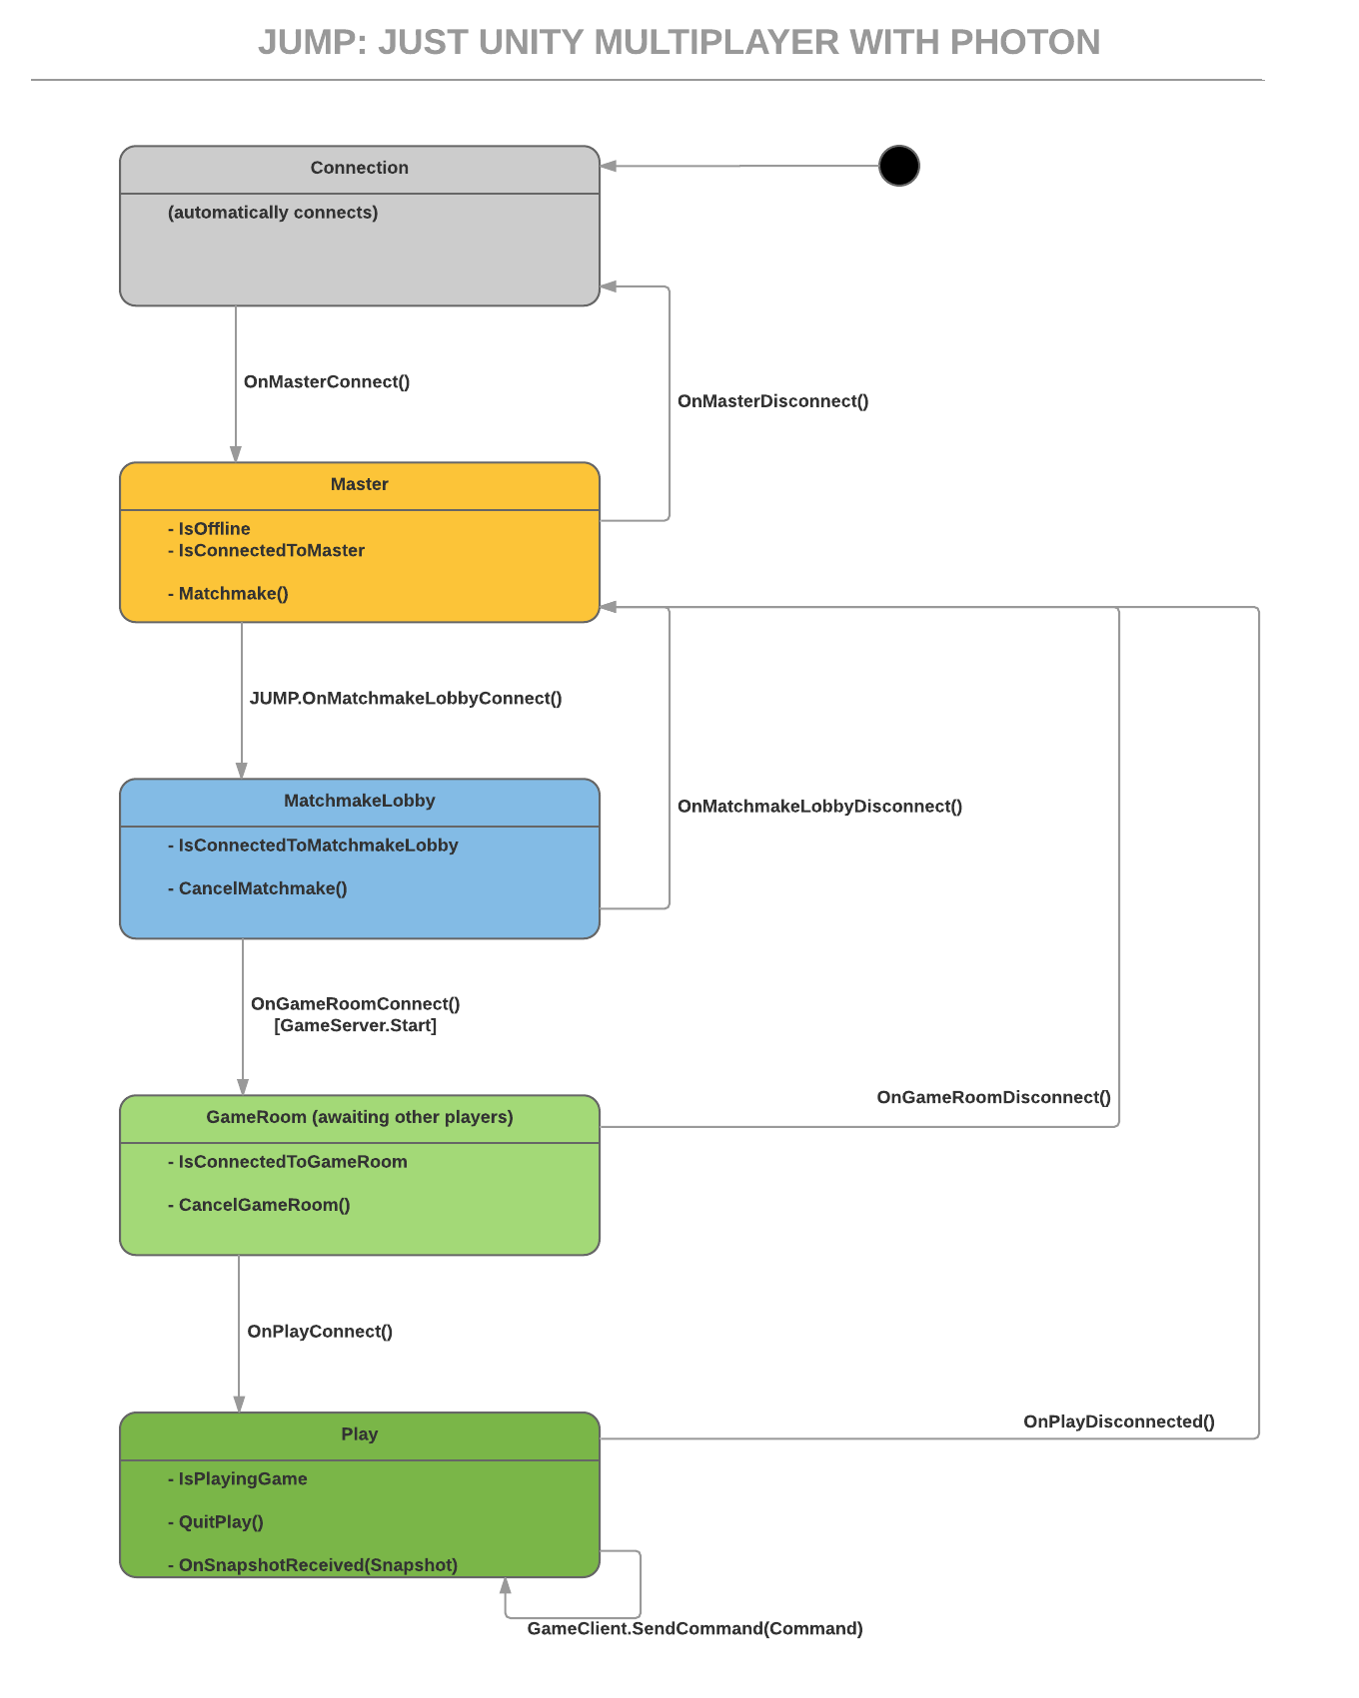
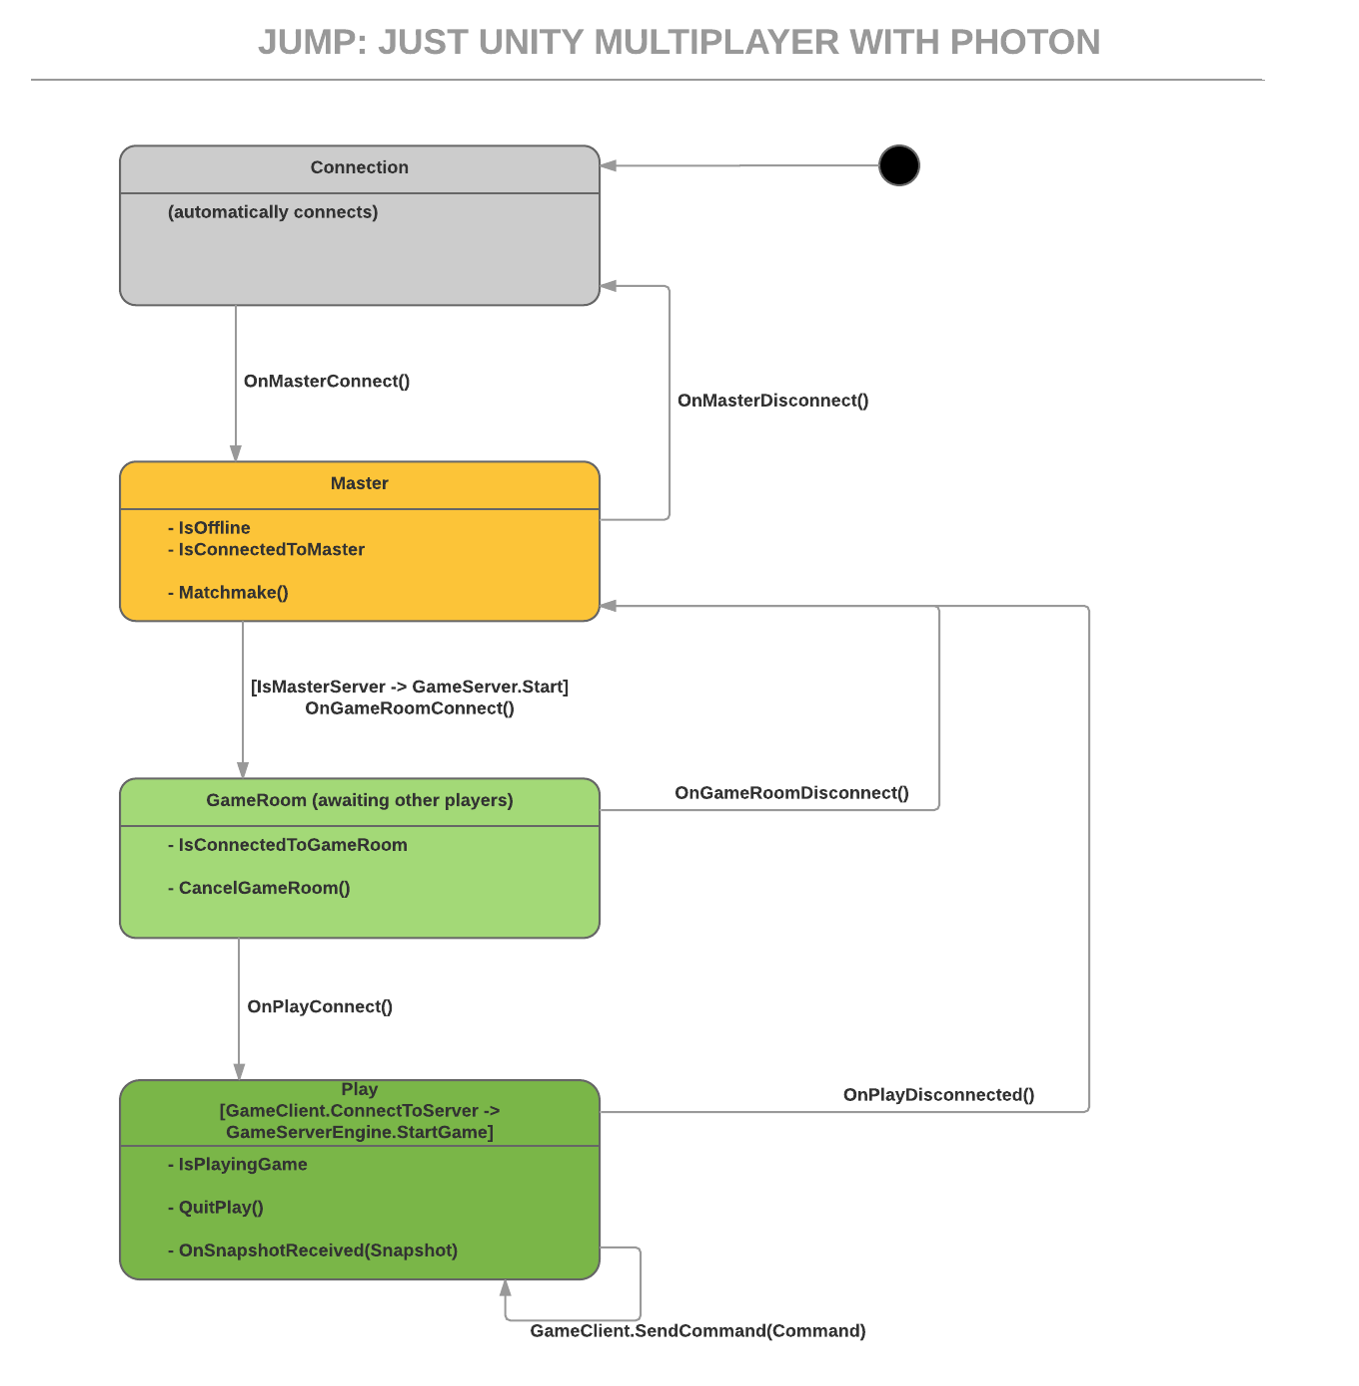
Updating documentation to reflect the removal of the Matchmaking Lobby.

diff --git a/README.md b/README.md
@@ -16,7 +16,7 @@ Out of the box, **JUMP** Provides:
 - Full source code access and great customization.
 
 #### Current Version
-[0.1.2] - 2016-05-05
+[0.2.0] - 2016-05-05
 
 For details, see [Changelog](https://raw.githubusercontent.com/MaurGi/JUMP/master/CHANGELOG.md)
 
@@ -65,18 +65,17 @@ The scenario supported by JUMP is very simple and designed with mobile multiplay
 * [Client-Server communication](#client-server-communication)
 
 #### Two Players networking
-JUMP automates building [Photon] rooms with two players, easy.
+JUMP automates building Photon game rooms, easy.
  
-*Note:* While it can be extended to support more than two players, the support for UI flow is only for the two players scenario
+*Note:* While it supports more than two players, we tested JUMP with the two players scenario
 
 #### Basic Matchmaking
-JUMP supports a single [Photon Lobby] with [Random Matchmaking](https://doc.photonengine.com/en/realtime/current/reference/matchmaking-and-lobby).
+JUMP uses Photon [Random Matchmaking](https://doc.photonengine.com/en/realtime/current/reference/matchmaking-and-lobby) without the use of the Photon Lobby making the UI and the object model much simpler to use compared to the use of the Lobby.
 
 #### Streamlined UI flow
 JUMP supports up to five different Unity scenes:
 * Connection
 * Home Page (Master)
-* Matchmaking Lobby
 * [Room] Waiting for players
 * [Room] Playing the game
 
@@ -141,7 +140,6 @@ public enum Stages
 {
     Connection,
     Master,
-    MatchmakeLobby,
     GameRoom,
     Play
 }
@@ -162,38 +160,14 @@ public UnityEvent OnMasterConnect;
 You respond to the event by loading a different Unity Scene with a `JUMPMultiplayer` object set in to the `Master` stage.
 Note that if the connection fails, then the `OnMasterConnect` event is raised, but the `JUMPMultiplayer.IsOffline` property is set to true.
 ##### `Stages.Master`
-The `Master` stage is the main screen one, the user is connected to Photon, but not yet into a matchmaking queue or in a game room.
-While connected to the Photon Master server (but not in a Lobby or Room), the `JUMPMultiplayer.IsConnectedToMaster` property will be set to `true`.
+The `Master` stage is the main screen one, the user is connected to Photon, but not yet into a game room.
+While connected to the Photon Master server (but not in a Room), the `JUMPMultiplayer.IsConnectedToMaster` property will be set to `true`.
 
 To start the matchmaking proces, you call the `Matchmake` operation:
 ```c#
 public void Matchmake()
 ```
-This triggers the request to connect to the default [Photon Matchmaking Lobby](https://doc.photonengine.com/en/realtime/current/reference/matchmaking-and-lobby) for your game.
-
-When the connection succees, the `OnMatchmakeLobbyConnect` event is fired. You want to handle this event by loading the Mathcmaking scene.
-```c#
-public UnityEvent OnMatchmakeLobbyConnect;
-```
-
-If the connection fails or we lose connection to the PhotonServer, then the `OnMasterDisconnect` event is fired. You want to handle this event by going back to the 'Connection' scene to try and reconnect once - if reconnection fails, you will be navigate again to the main scree with the `IsOffline` property set to true - in which case, you want to tell your users that they are offline. 
-```c#
-public UnityEvent OnMasterDisconnect;
-```
-##### `Stages.MatchmakeLobby`
-In the Matchmake lobby, JUMP will try to matchmake to a [Photon Game Room](https://doc.photonengine.com/en/realtime/current/reference/matchmaking-and-lobby) using Randon matchmaking.
-While connected to the Photon Lobby, the `JUMPMultiplayer.IsConnectedToMatchmakeLobby` property will be set to `true`.
-
-You can cancel the attempt to matchmake by calling the `CancelMatchmake` operation:
-```c#
-public void CancelMatchmake()
-```
-This will cancel the request to matchmake and raise the `OnMatchmakeLobbyDisconnect` event:
-```c#
-public UnityEvent OnMatchmakeLobbyDisconnect;
-```
-The `OnMatchmakeLobbyDisconnect` is also triggered in case of loss of connection to Photon.
-You want to handle this event by going back to the Main screen ([`Stages.Master`](#stagesmaster))
+This will make JUMP try to matchmake and connect to a [Photon Game Room](https://doc.photonengine.com/en/realtime/current/reference/matchmaking-and-lobby) using Randon matchmaking.
 
 When a game room is found then the `OnGameRoomConnect` event is fired:
 ```c#''
@@ -206,6 +180,12 @@ When the client connects to the Game Room, an instance of the [`JUMPGameServer`]
 ```c#
 public string GameServerEngineTypeName;
 ```
+
+If the connection fails or we lose connection to the PhotonServer, then the `OnMasterDisconnect` event is fired. You want to handle this event by going back to the 'Connection' scene to try and reconnect once - if reconnection fails, you will be navigate again to the main scree with the `IsOffline` property set to true - in which case, you want to tell your users that they are offline. 
+```c#
+public UnityEvent OnMasterDisconnect;
+```
+
 ##### `Stages.GameRoom`
 In this stage, the player is connected to a [Photon Game Room](https://doc.photonengine.com/en/realtime/current/reference/matchmaking-and-lobby) and waiting for the room to be full with two players.
 While connected to the Game Room, the `JUMPMultiplayer.IsConnectedToGameRoom` property will be set to `true`.
@@ -255,7 +235,6 @@ The _/JUMP/Multiplayer_ folder contains five prefabs, one for each of the [Stage
 The prefabs are:
 * JUMPMultiplayerConnection
 * JUMPMultiplayerMaster
-* JUMPMultiplayerMatchmakeLobby
 * JUMPMultiplayerGameRoom
 * JUMPMultiplayerPlay
 
@@ -277,7 +256,7 @@ The `JUMPGameServer` is managed by the `JUMPMultiplayer` class, you don't intera
 
 The `JUMPGameServer` will send a numbe of snapshots to the client per second that can be customized setting the `JUMPOptions.SnapshotsPerSec` property, the default is 3 snapshots per second.
 
-The `JUMPGameServer` is designed to interact with your custom Server Engine - just implement the [`IJUMPGameServerEngine`](#ijumpgameserverengine) interface and set the `GameServerEngineTypeName` property of a `JUMPMultiplayer` instance with Stage [`Stages.MatchmakeLobby`](#stagesmatchmakelobby) (or a *JUMPMultiplayerMatchmakeLobby* prefab).
+The `JUMPGameServer` is designed to interact with your custom Server Engine - just implement the [`IJUMPGameServerEngine`](#ijumpgameserverengine) interface and set the `GameServerEngineTypeName` property of a `JUMPMultiplayer` instance with Stage [`Stages.Master`](#stagesmaster) (or a *JUMPMultiplayerMaster* prefab).
 
 #### IJUMPGameServerEngine
 The `IJUMPGameServerEngine` interface allows you to customize the Server Engine for your multiplayer game.
@@ -296,7 +275,7 @@ public interface IJUMPGameServerEngine
 ```
 
 ###### `void StartGame(List<JUMPPlayer> Players)`
-**JUMP** will call StartGame when the `JUMPMultiplayer` is in the `MatchmakeLobby` stage and the player joins (or creates) a Room, right before calling `OnGameRoomConnect`.
+**JUMP** will call StartGame when the `JUMPMultiplayer` is in the `Master` stage and the player joins (or creates) a Room, right before calling `OnGameRoomConnect`.
 In this operation, you want to initialize your game state, using the information on the `Players` list to save the list of players that are in the game.
 
 For example, the [DiceRoller Custom Server](#diceroller-customs-erver) intializes its own GameState and saves the players using a custom DiceRollerPlayer class.
@@ -396,24 +375,14 @@ The Master Scene has has one instance of the **JUMPMultiplayerMaster** prefab.
 
 The scene handles two events:
 * `OnMasterDisconnect` that goes back to the Connection Scene to try and reconnect once.
-* `OnMatchmakeLobbyConnect` that loads the Matchmake Lobby Scene
+* `OnGameRoomConnect` that loads the Game Room Scene
 
 The scene uses a few more UI prefabs:
 * **JUMPStatusOnline** that displays if the client is online (connected with Photon) or offline
-* **JUMPStatusDefaultLobby** that displays the number of players connected to the Photon Lobby
-* **JUMPButtonMatchmake** a simple text button that is enabled when we are connected to the Photon Master Server; if the user clicks the button, then we invoke the `Matchmake` operation on the **JUMPMultiplayerMaster** prefab.
-
-#### Matchmake Lobby Scene
-The Matchmake Lobby Scene has has one instance of the **JUMPMultiplayerMatchmakeLobby** prefab.
-
-The scene handles two events:
-* `OnMatchmakeLobbyDisconnect` that goes back to the Master Scene.
-* `OnGameRoomConnect` that loads the Game Room Scene
+* **JUMPStatusPlayers** that displays the number of players connected to Photon
+* **JUMPButtonStartMatchmaking** a simple text button that is enabled when we are connected to the Photon Master Server; if the user clicks the button, then we invoke the `Matchmake` operation on the **JUMPMultiplayerMaster** prefab.
 
 It also sets the `GameServerEngineTypeName` variable to `"DiceRollerSample.DiceRollerEngine"` to create a custom server engine - for details see the [DiceRoller Custom Server].
-
-The scene uses a few more UI prefabs:
-* **JUMPButtonCancelMatchmake** which is enabled during this phase of the UI Flow. If the user clicks the button, then we invoke the `CancelMatchmake` operation on the **JUMPMultiplayerMatchmakeLobby** prefab.
 
 #### Game Room Scene
 The Game Room Scene has one instance of the **JUMPMultiplayerGameRoom** prefab.
@@ -643,7 +612,7 @@ public void Tick(double ElapsedSeconds)
 The `TakeSnapshot` operation is called by `JUMPGameServer` to send the snapshot to a player, so the snapshot is created for that specific player:
 
 ```c#
-public JUMPCommand_Snapshot TakeSnapshot(int ForPlayerID)
+public JUMPCommand_Snapshot TakeSnapshot(int FofrPlayerID)
 {
     DiceRoller_Snapshot snap = new DiceRoller_Snapshot();
     snap.ForPlayerID = ForPlayerID;

diff --git a/CHANGELOG.md b/CHANGELOG.md
@@ -13,3 +13,8 @@
 - Fixed a bug when Unity is quitting on singleton
 - Improved logging in some error conditions
 - Bug fixing
+
+## [0.2.0] - 2016-06-02
+### Changed
+- Removed the step that joins to the Photon Lobby, now you can join the game straight from the Server - easier user flow and object model
+- Bug fixing
